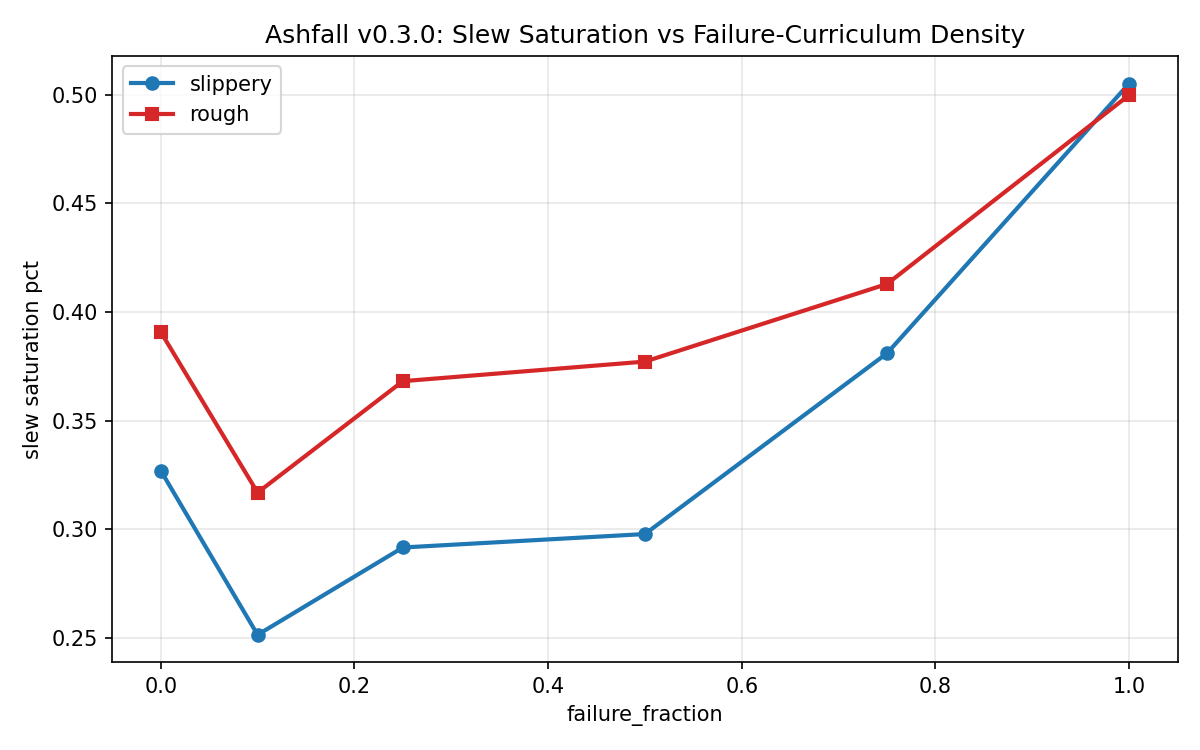
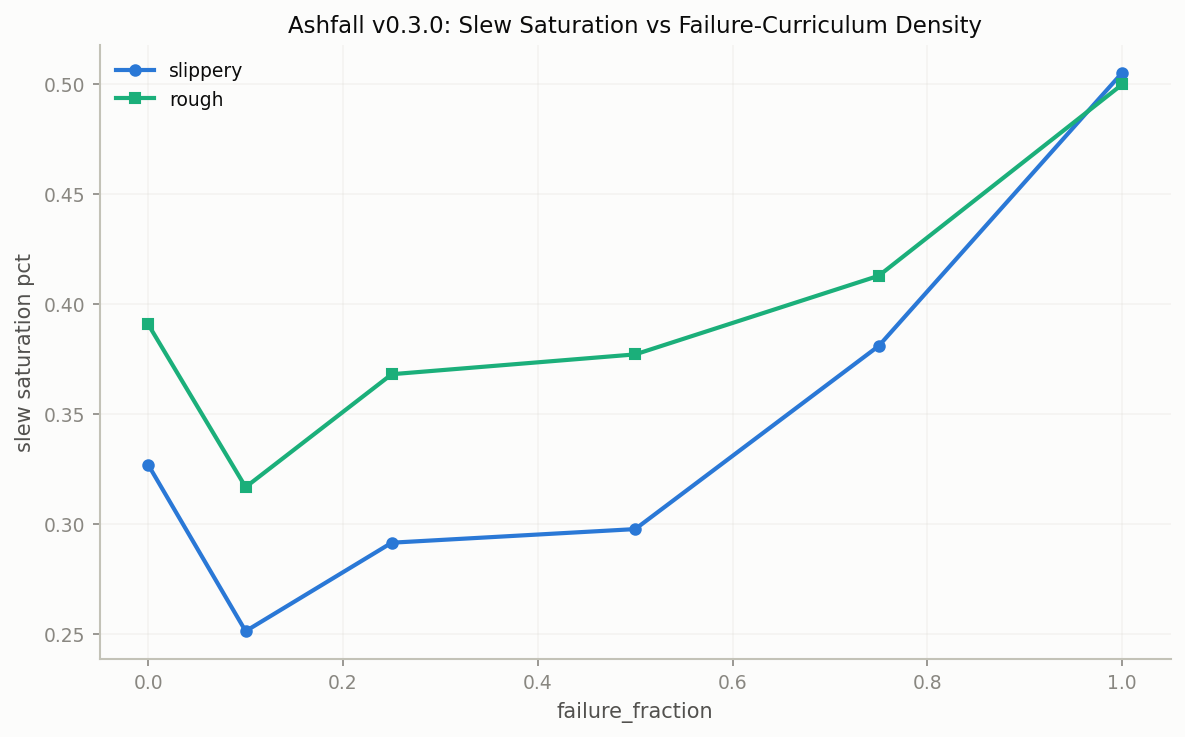
Theme all figures to physx-newton-bench editorial style

diff --git a/src/ashfall/analysis/physx_style.py b/src/ashfall/analysis/physx_style.py
@@ -1,0 +1,34 @@
+"""Editorial-print figure theme shared across projects.
+
+Source of truth: physx-newton-bench. One line to adopt:
+
+    import physx_style; physx_style.apply()
+
+Then plot as usual; every figure inherits the cream canvas, muted frame,
+and the physx-blue / newton-green palette. `PALETTE` and `COLORS` are
+exposed for scripts that need an explicit per-series color.
+"""
+import os
+import matplotlib.pyplot as plt
+
+_STYLE = os.path.join(os.path.dirname(os.path.abspath(__file__)), "physx_style.mplstyle")
+
+# Editorial-print ink used for annotations/titles when set explicitly.
+INK = "#0b0b0b"
+CREAM = "#fcfcfb"
+PALETTE = ["#2a78d6", "#1baf7a", "#d08a2e", "#b0472b", "#6a5acd", "#52514e"]
+# Canonical two-backend mapping (physx-newton-bench).
+COLORS = {"physx": "#2a78d6", "newton": "#1baf7a"}
+
+
+def apply():
+    """Activate the shared style. Safe to call more than once."""
+    plt.style.use(_STYLE)
+
+
+def cmap_cycle(n):
+    """n categorical colors from the editorial palette (drop-in for plt.cm.tabX).
+
+    Returns a list of hex strings, wrapping the palette if n exceeds its length.
+    """
+    return [PALETTE[i % len(PALETTE)] for i in range(int(n))]

diff --git a/src/ashfall/analysis/sweep_report.py b/src/ashfall/analysis/sweep_report.py
@@ -124,7 +124,8 @@ def _plot_success_curves(cells: list[dict], output_path: Path) -> None:
 
     matplotlib.use("Agg")
     import matplotlib.pyplot as plt
-
+    import physx_style as _physx_style  # editorial-print theme
+    _physx_style.apply()
     xs = [c["failure_fraction"] for c in cells if not c["missing"]]
     slip = [
         c["metrics"].get("slippery", {}).get("success_rate", float("nan"))
@@ -157,10 +158,10 @@ def _plot_success_curves(cells: list[dict], output_path: Path) -> None:
     ) if xs else ([], [])
 
     fig, ax = plt.subplots(figsize=(8, 5))
-    ax.plot(xs, slip, "o-", color="#1f77b4", label="slippery", linewidth=2)
-    ax.fill_between(xs, slip_lo, slip_hi, color="#1f77b4", alpha=0.15)
-    ax.plot(xs, rough, "s-", color="#d62728", label="rough", linewidth=2)
-    ax.fill_between(xs, rough_lo, rough_hi, color="#d62728", alpha=0.15)
+    ax.plot(xs, slip, "o-", color=_physx_style.COLORS["physx"], label="slippery", linewidth=2)
+    ax.fill_between(xs, slip_lo, slip_hi, color=_physx_style.COLORS["physx"], alpha=0.15)
+    ax.plot(xs, rough, "s-", color=_physx_style.COLORS["newton"], label="rough", linewidth=2)
+    ax.fill_between(xs, rough_lo, rough_hi, color=_physx_style.COLORS["newton"], alpha=0.15)
     ax.set_xlabel("failure_fraction")
     ax.set_ylabel("success rate")
     ax.set_title("Ashfall v0.3.0: Success Rate vs Failure-Curriculum Density")
@@ -178,6 +179,8 @@ def _plot_slew(cells: list[dict], output_path: Path) -> None:
 
     matplotlib.use("Agg")
     import matplotlib.pyplot as plt
+    import physx_style as _physx_style  # editorial-print theme
+    _physx_style.apply()
 
     xs = [c["failure_fraction"] for c in cells if not c["missing"]]
     slip = [
@@ -192,8 +195,8 @@ def _plot_slew(cells: list[dict], output_path: Path) -> None:
     ]
 
     fig, ax = plt.subplots(figsize=(8, 5))
-    ax.plot(xs, slip, "o-", color="#1f77b4", label="slippery", linewidth=2)
-    ax.plot(xs, rough, "s-", color="#d62728", label="rough", linewidth=2)
+    ax.plot(xs, slip, "o-", color=_physx_style.COLORS["physx"], label="slippery", linewidth=2)
+    ax.plot(xs, rough, "s-", color=_physx_style.COLORS["newton"], label="rough", linewidth=2)
     ax.set_xlabel("failure_fraction")
     ax.set_ylabel("slew saturation pct")
     ax.set_title("Ashfall v0.3.0: Slew Saturation vs Failure-Curriculum Density")

diff --git a/src/ashfall/analysis/plots.py b/src/ashfall/analysis/plots.py
@@ -23,7 +23,8 @@ def _import_plt():
 
     matplotlib.use("Agg")
     import matplotlib.pyplot as plt
-
+    import physx_style as _physx_style  # editorial-print theme
+    _physx_style.apply()
     return plt
 
 
@@ -53,7 +54,7 @@ def plot_condition_comparison(
 
     fig, ax = plt.subplots(figsize=(max(8, n_envs * 2), 5))
 
-    colors = plt.cm.Set2(np.linspace(0, 1, max(n_conds, 3)))
+    colors = _physx_style.cmap_cycle(max(n_conds, 3))
     for i, cond in enumerate(conditions):
         values = [results[cond].get(env, {}).get(metric, 0.0) for env in envs]
         bars = ax.bar(x + i * width, values, width, label=cond, color=colors[i])
@@ -101,7 +102,7 @@ def plot_failure_distribution(
 
     x = np.arange(len(conditions))
     bottoms = np.zeros(len(conditions))
-    colors = plt.cm.tab10(np.linspace(0, 1, max(len(all_modes), 1)))
+    colors = _physx_style.cmap_cycle(max(len(all_modes), 1))
 
     for i, mode in enumerate(all_modes):
         values = [failure_counts[c].get(mode, 0) for c in conditions]
@@ -143,8 +144,8 @@ def plot_ablation_sweep(
     y_sorted = [p[1] for p in pairs]
 
     fig, ax = plt.subplots(figsize=(8, 5))
-    ax.plot(x_sorted, y_sorted, "o-", linewidth=2, markersize=8, color="#2196F3")
-    ax.fill_between(x_sorted, y_sorted, alpha=0.1, color="#2196F3")
+    ax.plot(x_sorted, y_sorted, "o-", linewidth=2, markersize=8, color=_physx_style.COLORS["physx"])
+    ax.fill_between(x_sorted, y_sorted, alpha=0.1, color=_physx_style.COLORS["physx"])
 
     for xi, yi in zip(x_sorted, y_sorted):
         ax.annotate(

diff --git a/src/ashfall/analysis/failure_modes.py b/src/ashfall/analysis/failure_modes.py
@@ -135,6 +135,8 @@ def plot_curriculum_pool_composition(
 
     matplotlib.use("Agg")
     import matplotlib.pyplot as plt
+    import physx_style as _physx_style  # editorial-print theme
+    _physx_style.apply()
     import numpy as np
 
     output_path = Path(output_path)
@@ -147,7 +149,7 @@ def plot_curriculum_pool_composition(
     ffs = [c["failure_fraction"] for c in cells]
     bottoms = np.zeros(len(cells))
     fig, ax = plt.subplots(figsize=(9, 5))
-    colors = plt.cm.tab10(np.linspace(0, 1, max(len(modes), 1)))
+    colors = _physx_style.cmap_cycle(max(len(modes), 1))
     for i, mode in enumerate(modes):
         vals = np.array([c["per_mode_share"].get(mode, 0.0) for c in cells])
         ax.bar(ffs, vals, bottom=bottoms, label=mode, color=colors[i], width=0.08)

diff --git a/results/REPORT.md b/results/REPORT.md
@@ -1,6 +1,6 @@
 # Ashfall v0.3.0: Failure-Fraction Sweep
 
-Generated: 2026-05-07 13:46
+Generated: 2026-07-03 18:56
 Cells discovered: 6
 
 ## Setup
@@ -81,7 +81,7 @@ Reading: the pool is balanced at 3 trajectories per mode but skewed in active-fa
 ![pool composition](sweep_curriculum_pool_composition.png)
 
 ## Notes & Limitations
-- **Statistical reading**: under approximate BCa bootstrap + Fisher's exact + Holm-Bonferroni, no individual ff cell is statistically distinct from the ff=0.0 control at alpha=0.05 per terrain. The v0.3.0 point-estimate optimum at ff=0.5 (+5.1 pp slippery) is real but its 95% CI on the difference straddles 0. Treat the optimum as the best-bet starting point for a follow-up ablation, not as a proven win.
+- **Statistical reading**: under BCa bootstrap + Fisher's exact + Holm-Bonferroni, no individual ff cell is statistically distinct from the ff=0.0 control at alpha=0.05 per terrain. The v0.3.0 point-estimate optimum at ff=0.5 (+5.1 pp slippery) is real but its 95% CI on the difference straddles 0. Treat the optimum as the best-bet starting point for a follow-up ablation, not as a proven win.
 - **Single seed**: every cell ran with `training.seed = 42`. All CIs above are within-run binomial; they say nothing about cross-seed variance.
 - **No per-episode raw data**: Phoenix `evaluate.py` collapses the rollout to aggregate scalars; there are no per-episode success indicators or failure-mode labels at eval time. Per-mode breakdowns at eval time require re-running with a logger patch and are deferred.
 - **n_episodes is approximate**: each cell's eval yields 128 to 140 terminations depending on episode length; `num_episodes` per cell is what we trust for Wilson and bootstrap CIs.